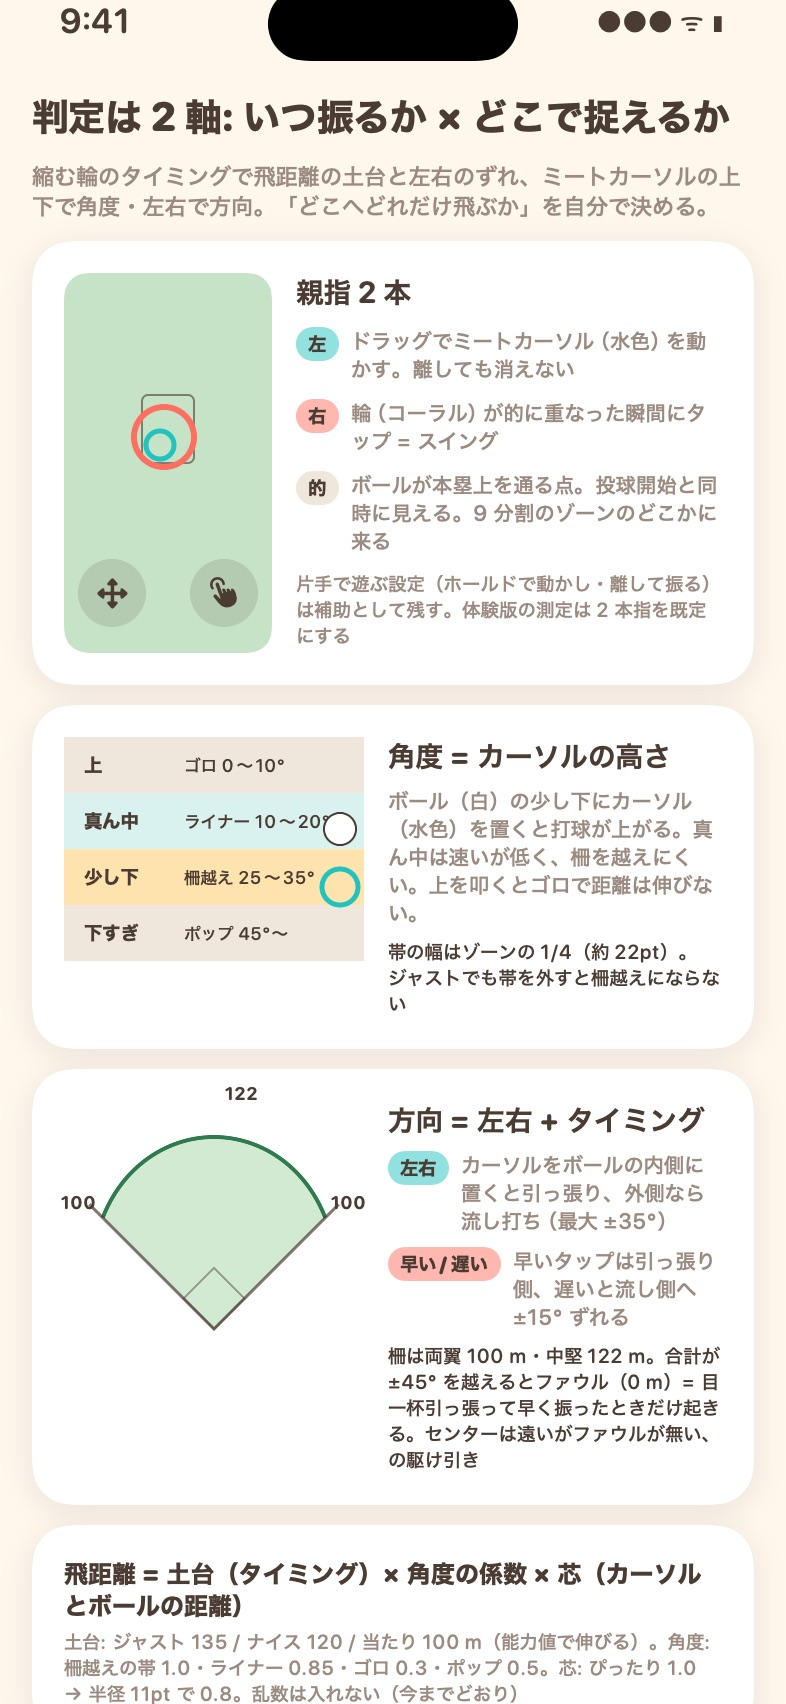
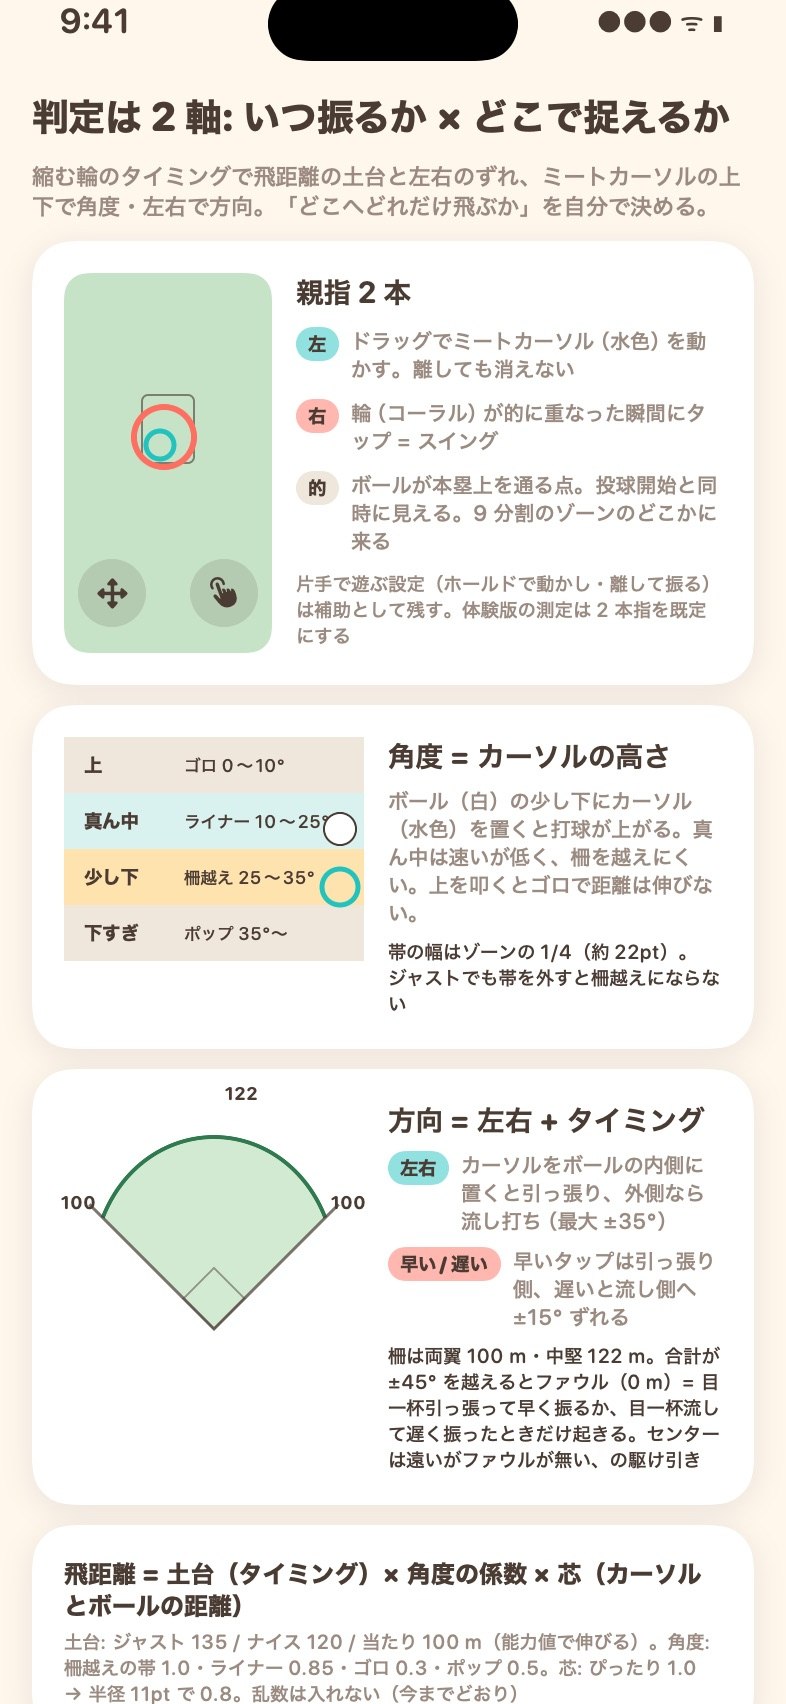
docs(design): 角度の帯を隙間なく定義し、ファウルが両側で起きることを明記する（#1316・CodeRabbit 指摘）

Changed region(s): [[0.4885, 0.8087, 0.916, 0.8709]]

diff --git a/docs/design/homerun/mock.swift b/docs/design/homerun/mock.swift
@@ -1784,9 +1784,9 @@ struct Controls2Axis: View {
                         ZStack(alignment: .top) {
                             VStack(spacing: 0) {
                                 band("上", "ゴロ 0〜10°", hexColor(0xEFE7DC))
-                                band("真ん中", "ライナー 10〜20°", hexColor(0xD9F1EF))
+                                band("真ん中", "ライナー 10〜25°", hexColor(0xD9F1EF))
                                 band("少し下", "柵越え 25〜35°", T.yellow.opacity(0.45))
-                                band("下すぎ", "ポップ 45°〜", hexColor(0xEFE7DC))
+                                band("下すぎ", "ポップ 35°〜", hexColor(0xEFE7DC))
                             }.frame(width: 150)
                             Circle().fill(.white).frame(width: 16, height: 16).overlay(Circle().stroke(T.ink, lineWidth: 1)).offset(x: 63, y: 38)
                             Circle().stroke(T.teal, lineWidth: 2.5).frame(width: 18, height: 18).offset(x: 63, y: 66)
@@ -1805,7 +1805,7 @@ struct Controls2Axis: View {
                             Text("方向 = 左右 + タイミング").font(T.f(15)).foregroundStyle(T.ink)
                             row("左右", "カーソルをボールの内側に置くと引っ張り、外側なら流し打ち（最大 ±35°）", T.teal)
                             row("早い/遅い", "早いタップは引っ張り側、遅いと流し側へ ±15° ずれる", T.coral)
-                            Text("柵は両翼 100 m・中堅 122 m。合計が ±45° を越えるとファウル（0 m）= 目一杯引っ張って早く振ったときだけ起きる。センターは遠いがファウルが無い、の駆け引き").font(T.f(10, .medium)).foregroundStyle(T.ink).fixedSize(horizontal: false, vertical: true)
+                            Text("柵は両翼 100 m・中堅 122 m。合計が ±45° を越えるとファウル（0 m）= 目一杯引っ張って早く振るか、目一杯流して遅く振ったときだけ起きる。センターは遠いがファウルが無い、の駆け引き").font(T.f(10, .medium)).foregroundStyle(T.ink).fixedSize(horizontal: false, vertical: true)
                         }
                     }
                 }
